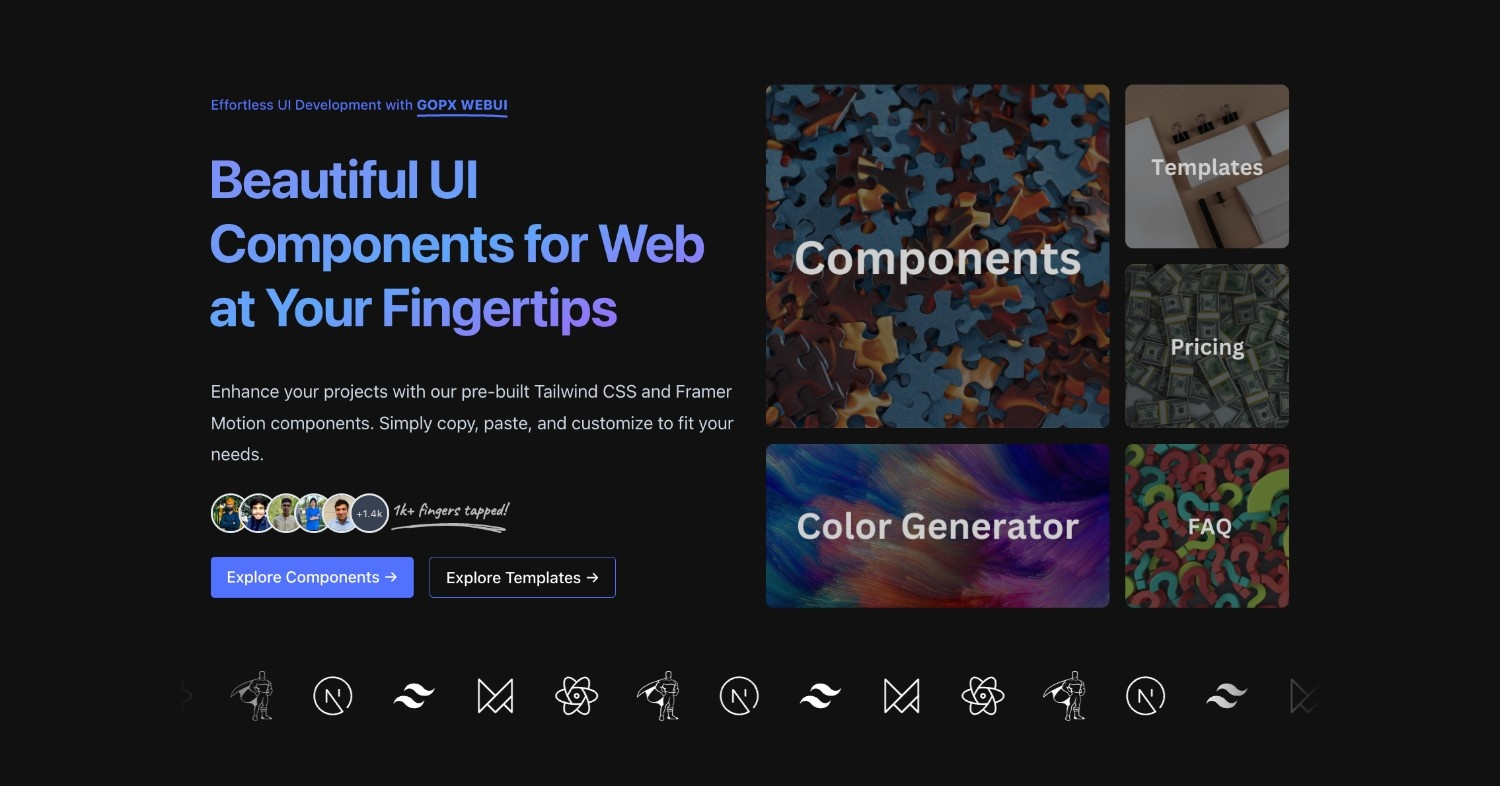
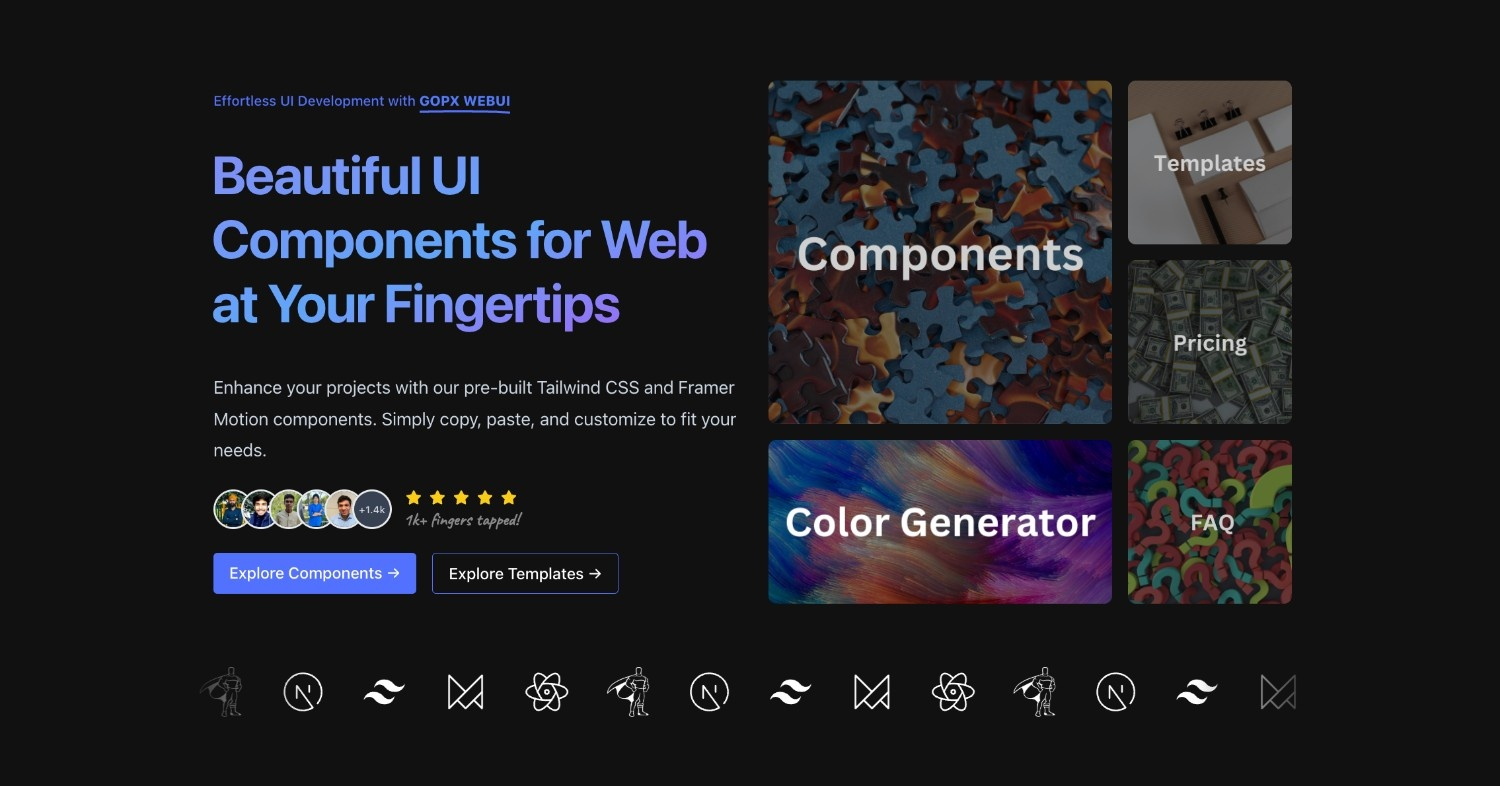
feat: starts to hero

diff --git a/apps/website/components/GopxUserStack.tsx b/apps/website/components/GopxUserStack.tsx
@@ -1,4 +1,5 @@
 import StackedAvatars from "./StackedAvatars";
+import { FaStar } from "react-icons/fa";
 
 const GopxUserStack: React.FC = () => {
   const avatars = [
@@ -31,16 +32,14 @@ const GopxUserStack: React.FC = () => {
   return (
     <div className="my-6 relative  flex-col">
       <StackedAvatars avatars={avatars} />
-      <div className="absolute bottom-0 left-[240px] transform -translate-x-1/2 w-1/2 text-center">
-        <span className="inline-block transform text-[#B8B8B8] text-lg font-caveat font-bold">
+      <div className="absolute -bottom-1 left-[250px] transform -translate-x-1/2 w-1/2 text-center">
+        <div className="flex justify-center mb-0">
+          {[...Array(5)].map((_, index) => (
+            <FaStar key={index} className="text-yellow-400 mx-1" />
+          ))}
+        </div>
+        <span className="inline-block transform dark:text-white/50 text-black/50 text-lg font-caveat font-bold ">
           1k+ fingers tapped!
-          <svg
-            xmlns="http://www.w3.org/2000/svg"
-            viewBox="0 0 1418 125"
-            fill="#B8B8B8"
-          >
-            <path d="M1412.29 72.17c-11.04-5.78-20.07-14.33-85.46-25.24-22.37-3.63-44.69-7.56-67.07-11.04-167.11-22.06-181.65-21.24-304.94-30.56C888.78 1.39 822.57 1.1 756.44 0c-46.63-.11-93.27 1.56-139.89 2.5C365.5 13.55 452.86 7.68 277.94 23.15 202.57 33.32 127.38 45.01 52.07 55.69c-11.23 2.41-22.63 4.17-33.71 7.22C6.1 66.33 5.64 66.19 3.89 67.79c-7.99 5.78-2.98 20.14 8.72 17.5 33.99-9.47 32.28-8.57 178.06-29.66 4.26 4.48 7.29 3.38 18.42 3.11 13.19-.32 26.38-.53 39.56-1.12 53.51-3.81 106.88-9.62 160.36-13.95 18.41-1.3 36.8-3.12 55.21-4.7 23.21-1.16 46.43-2.29 69.65-3.4 120.28-2.16 85.46-3.13 234.65-1.52 23.42.99 1.57-.18 125.72 6.9 96.61 8.88 200.92 27.94 295.42 46.12 40.87 7.91 116.67 23.2 156.31 36.78 3.81 1.05 8.28-.27 10.51-3.58 3.17-3.72 2.66-9.7-.78-13.13-3.25-3.12-8.14-3.44-12.18-5.08-17.89-5.85-44.19-12.09-63.67-16.56l26.16 3.28c23.02 3.13 46.28 3.92 69.34 6.75 10.8.96 25.43 1.81 34.34-4.39 2.26-1.54 4.86-2.75 6.21-5.27 2.76-4.59 1.13-11.06-3.59-13.68ZM925.4 23.77c37.64 1.4 153.99 10.85 196.64 14.94 45.95 5.51 91.89 11.03 137.76 17.19 24.25 4.77 74.13 11.21 101.72 18.14-11.87-1.15-23.77-1.97-35.65-3.06-133.46-15.9-266.8-33.02-400.47-47.21Z"></path>
-          </svg>
         </span>
       </div>
     </div>
